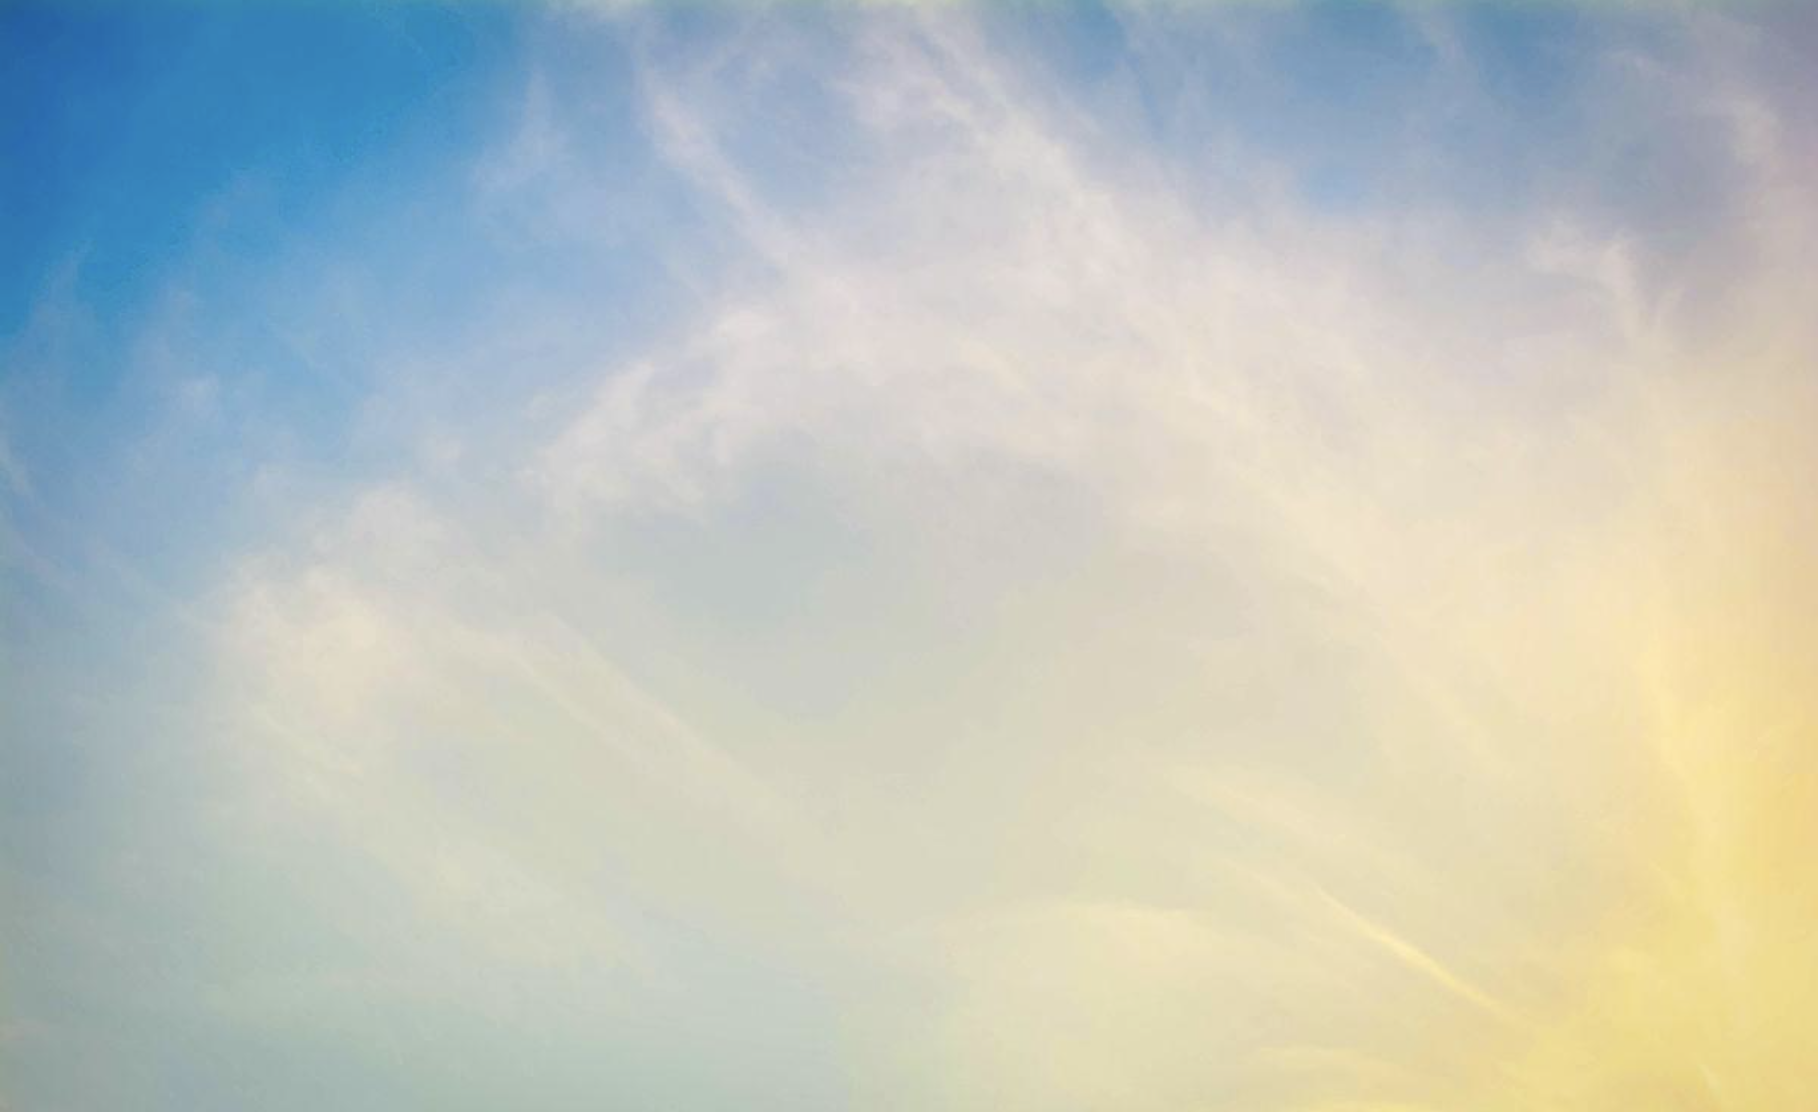
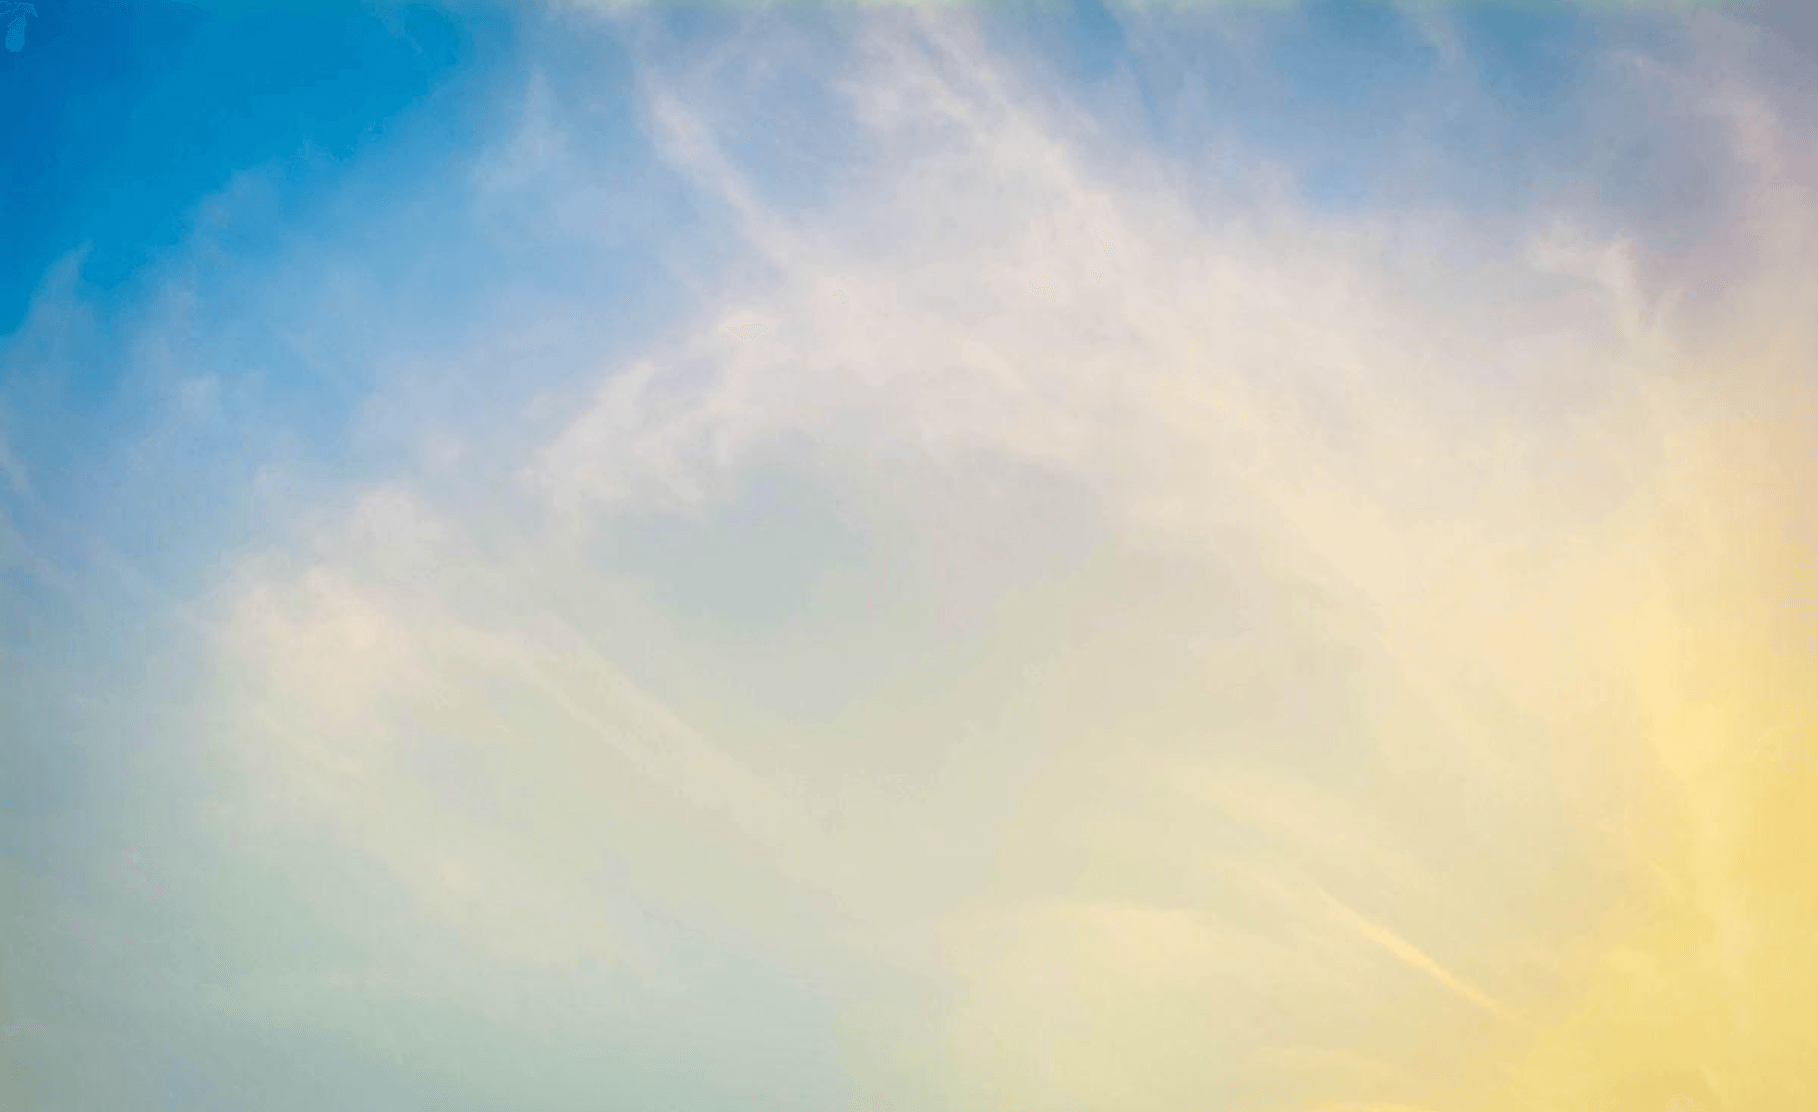
更新README和背景图片

Changed region(s): [[0.0, 0.0, 0.2772, 0.3363]]

diff --git a/src/component/GetComponents/RevealEmpty.js b/src/component/GetComponents/RevealEmpty.js
@@ -11,7 +11,6 @@ const revealEmpty = (x, y, data, boderState) => {
       (value.isMine === false || value.isEmpty === true)
     ) {
       data[value.x][value.y].isRevealed = true;
-
       if (value.isEmpty === true)
         revealEmpty(value.x, value.y, data, boderState); //递归
     }

diff --git a/src/component/Cell.js b/src/component/Cell.js
@@ -10,7 +10,6 @@ const Cell = ({ data, onClick, contextMenu }) => {
     if (data.isRevealed === false) {
       //isRevealed为false时执行
       if (data.isFlag) {
-        console.log("flag");
         return "🚩";
       }
     } else {

diff --git a/README.md b/README.md
@@ -1,6 +1,6 @@
 # Minesweeper-game 扫雷小游戏
 
-![minesweeper](src/Game-Interface.png)
+![minesweeper](/Users/chj/caohuijun/projects-react/minsweeper/src/Img/minsweeper.png)
 
 ## 概述
 
